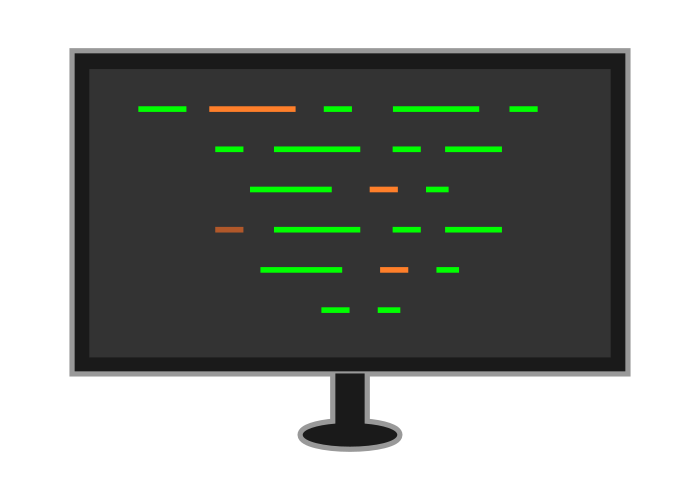
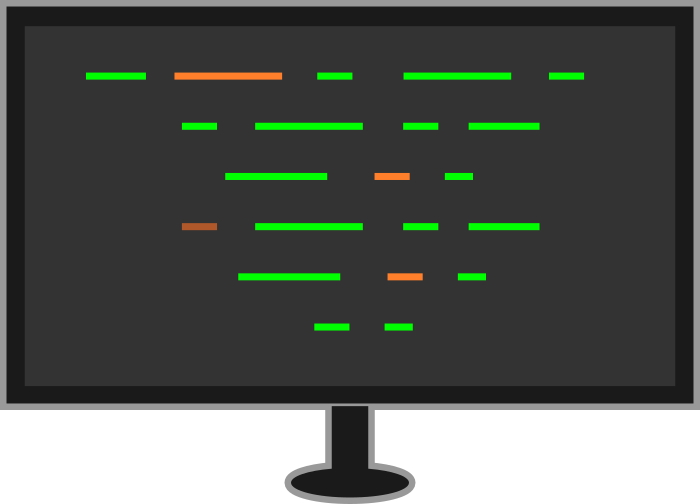
modificacion: sobre mi

diff --git a/css/styles.css b/css/styles.css
@@ -81,7 +81,6 @@ h2 {
     padding-top: 8rem;
     padding-bottom: 8rem;
     display: flex;
-    align-items: center;
     justify-content: center;
     gap: 2rem;
     /* max-width: 68rem; */
@@ -146,8 +145,9 @@ h2 {
 @media only screen and (max-width: 768px) {
     .sobremi {
         flex-direction: column;
-        padding-top: 100px;
-        padding-bottom: 70px;
+        padding-top: 80px;
+        padding-bottom: 50px;
+        padding-left: 35px;
         gap: 5px;
     }
 
@@ -170,19 +170,19 @@ h2 {
     }
 
     .sobremi-texto {
-        width: 79%;
+        width: 85%;
         order: 1;
     }
 
     .sobremi-texto h2 {
-        font-size: 1.4rem;
-        line-height: 40px;
+        font-size: 2.5rem;
+        line-height: 45px;
     }
 
     .sobremi-texto p {
         margin-top: 20px;
-        line-height: 1.5rem;
-        font-size: 1rem;
+        /* line-height: 1.5rem; */
+        font-size: 1.2rem;
         /* font-family: 'Times New Roman', Times, serif;
         font-size: 1.5rem;
         letter-spacing: 1px;
@@ -192,6 +192,8 @@ h2 {
     .nombre-profesion {
         display: block;
         margin-bottom: 10px;
+        margin-top: 10px;
+        width: 70%;
         order: 3;
     }
 
@@ -206,6 +208,7 @@ h2 {
     }
 
     .monitor {
+        width: 80%;
         order: 2;
     }
 }
